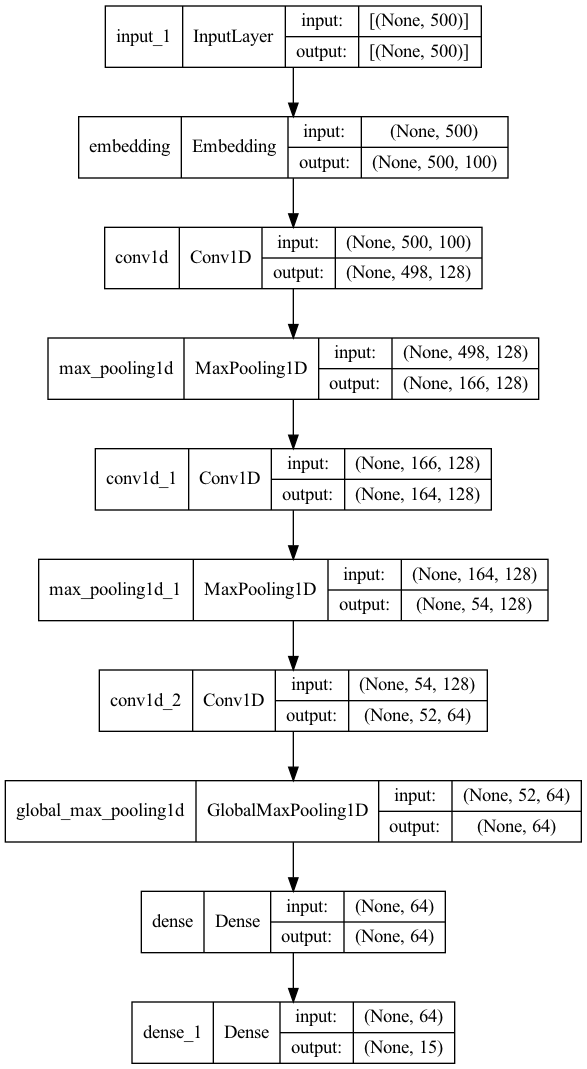
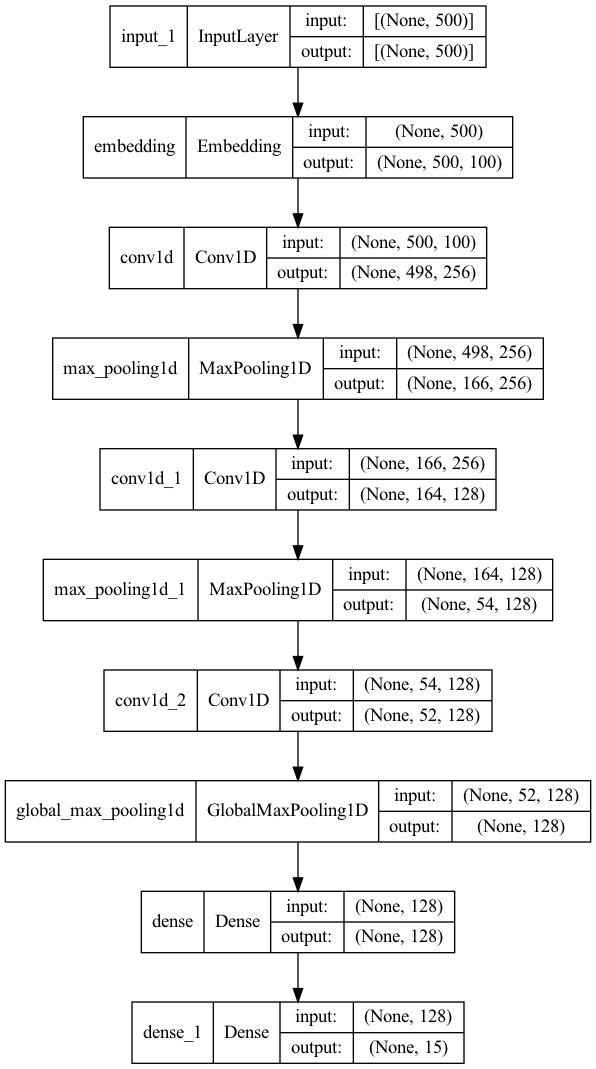
Set 128 neurons

diff --git a/process.py b/process.py
@@ -79,10 +79,9 @@ x = Conv1D(128, 3, activation='relu')(x)
 x = MaxPooling1D(3)(x)
 x = Conv1D(128, 3, activation='relu')(x)
 x = MaxPooling1D(3)(x)
-x = Conv1D(64, 3, activation='relu')(x)
+x = Conv1D(128, 3, activation='relu')(x)
 x = GlobalMaxPooling1D()(x)
-x = Dense(64, activation='relu')(x)
-# x = Dropout(0.4)(x)
+x = Dense(128, activation='relu')(x)
 output = Dense(len(possible_labels), activation='sigmoid')(x)
 
 model = Model(input_, output)
